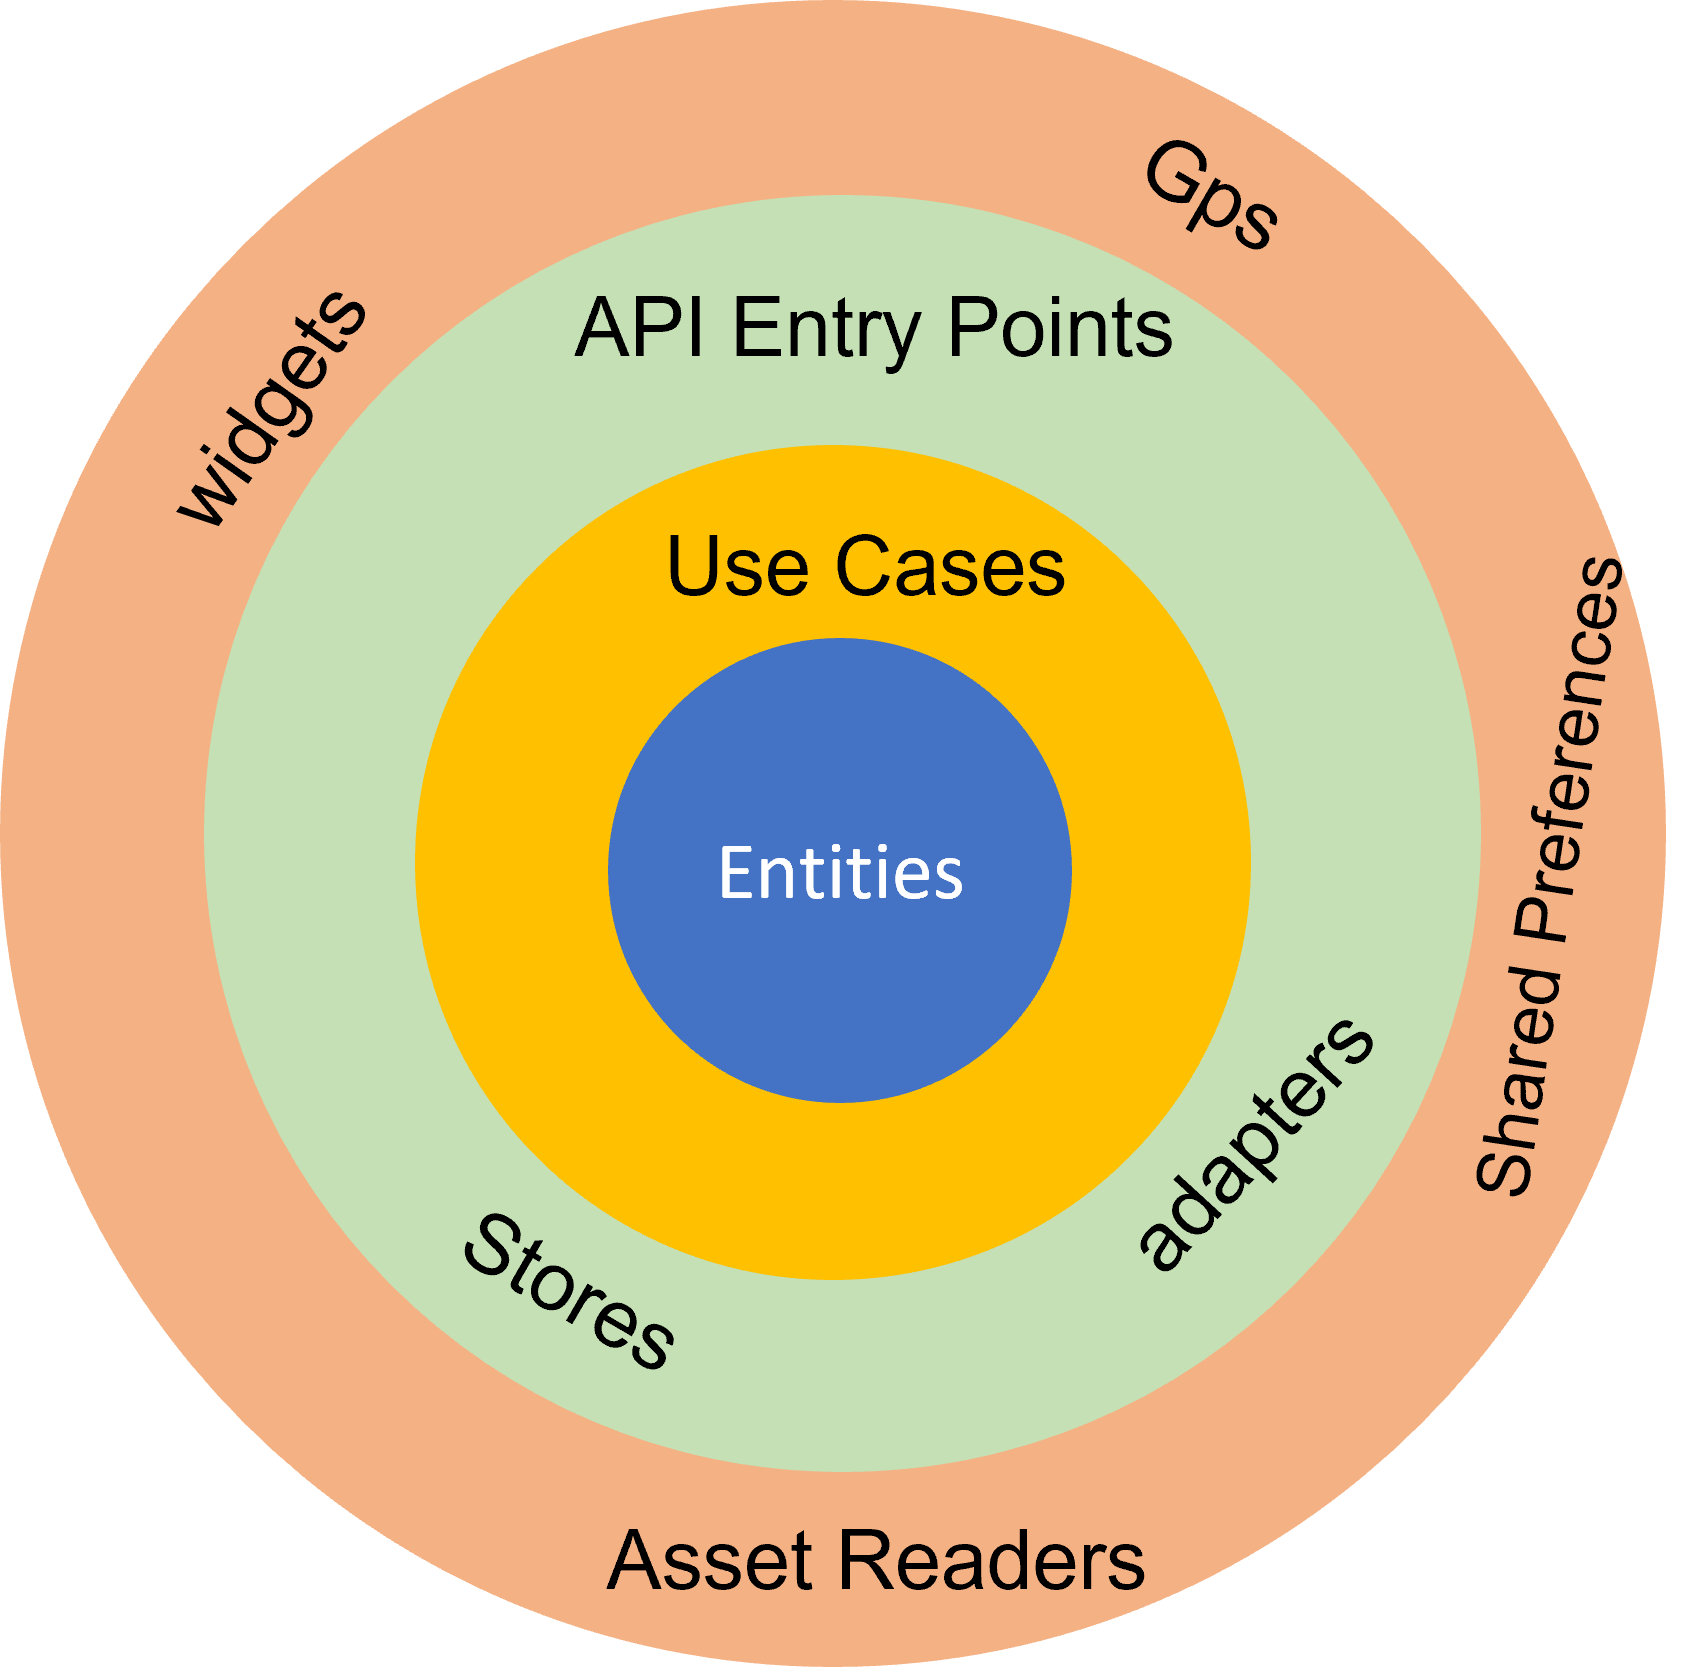
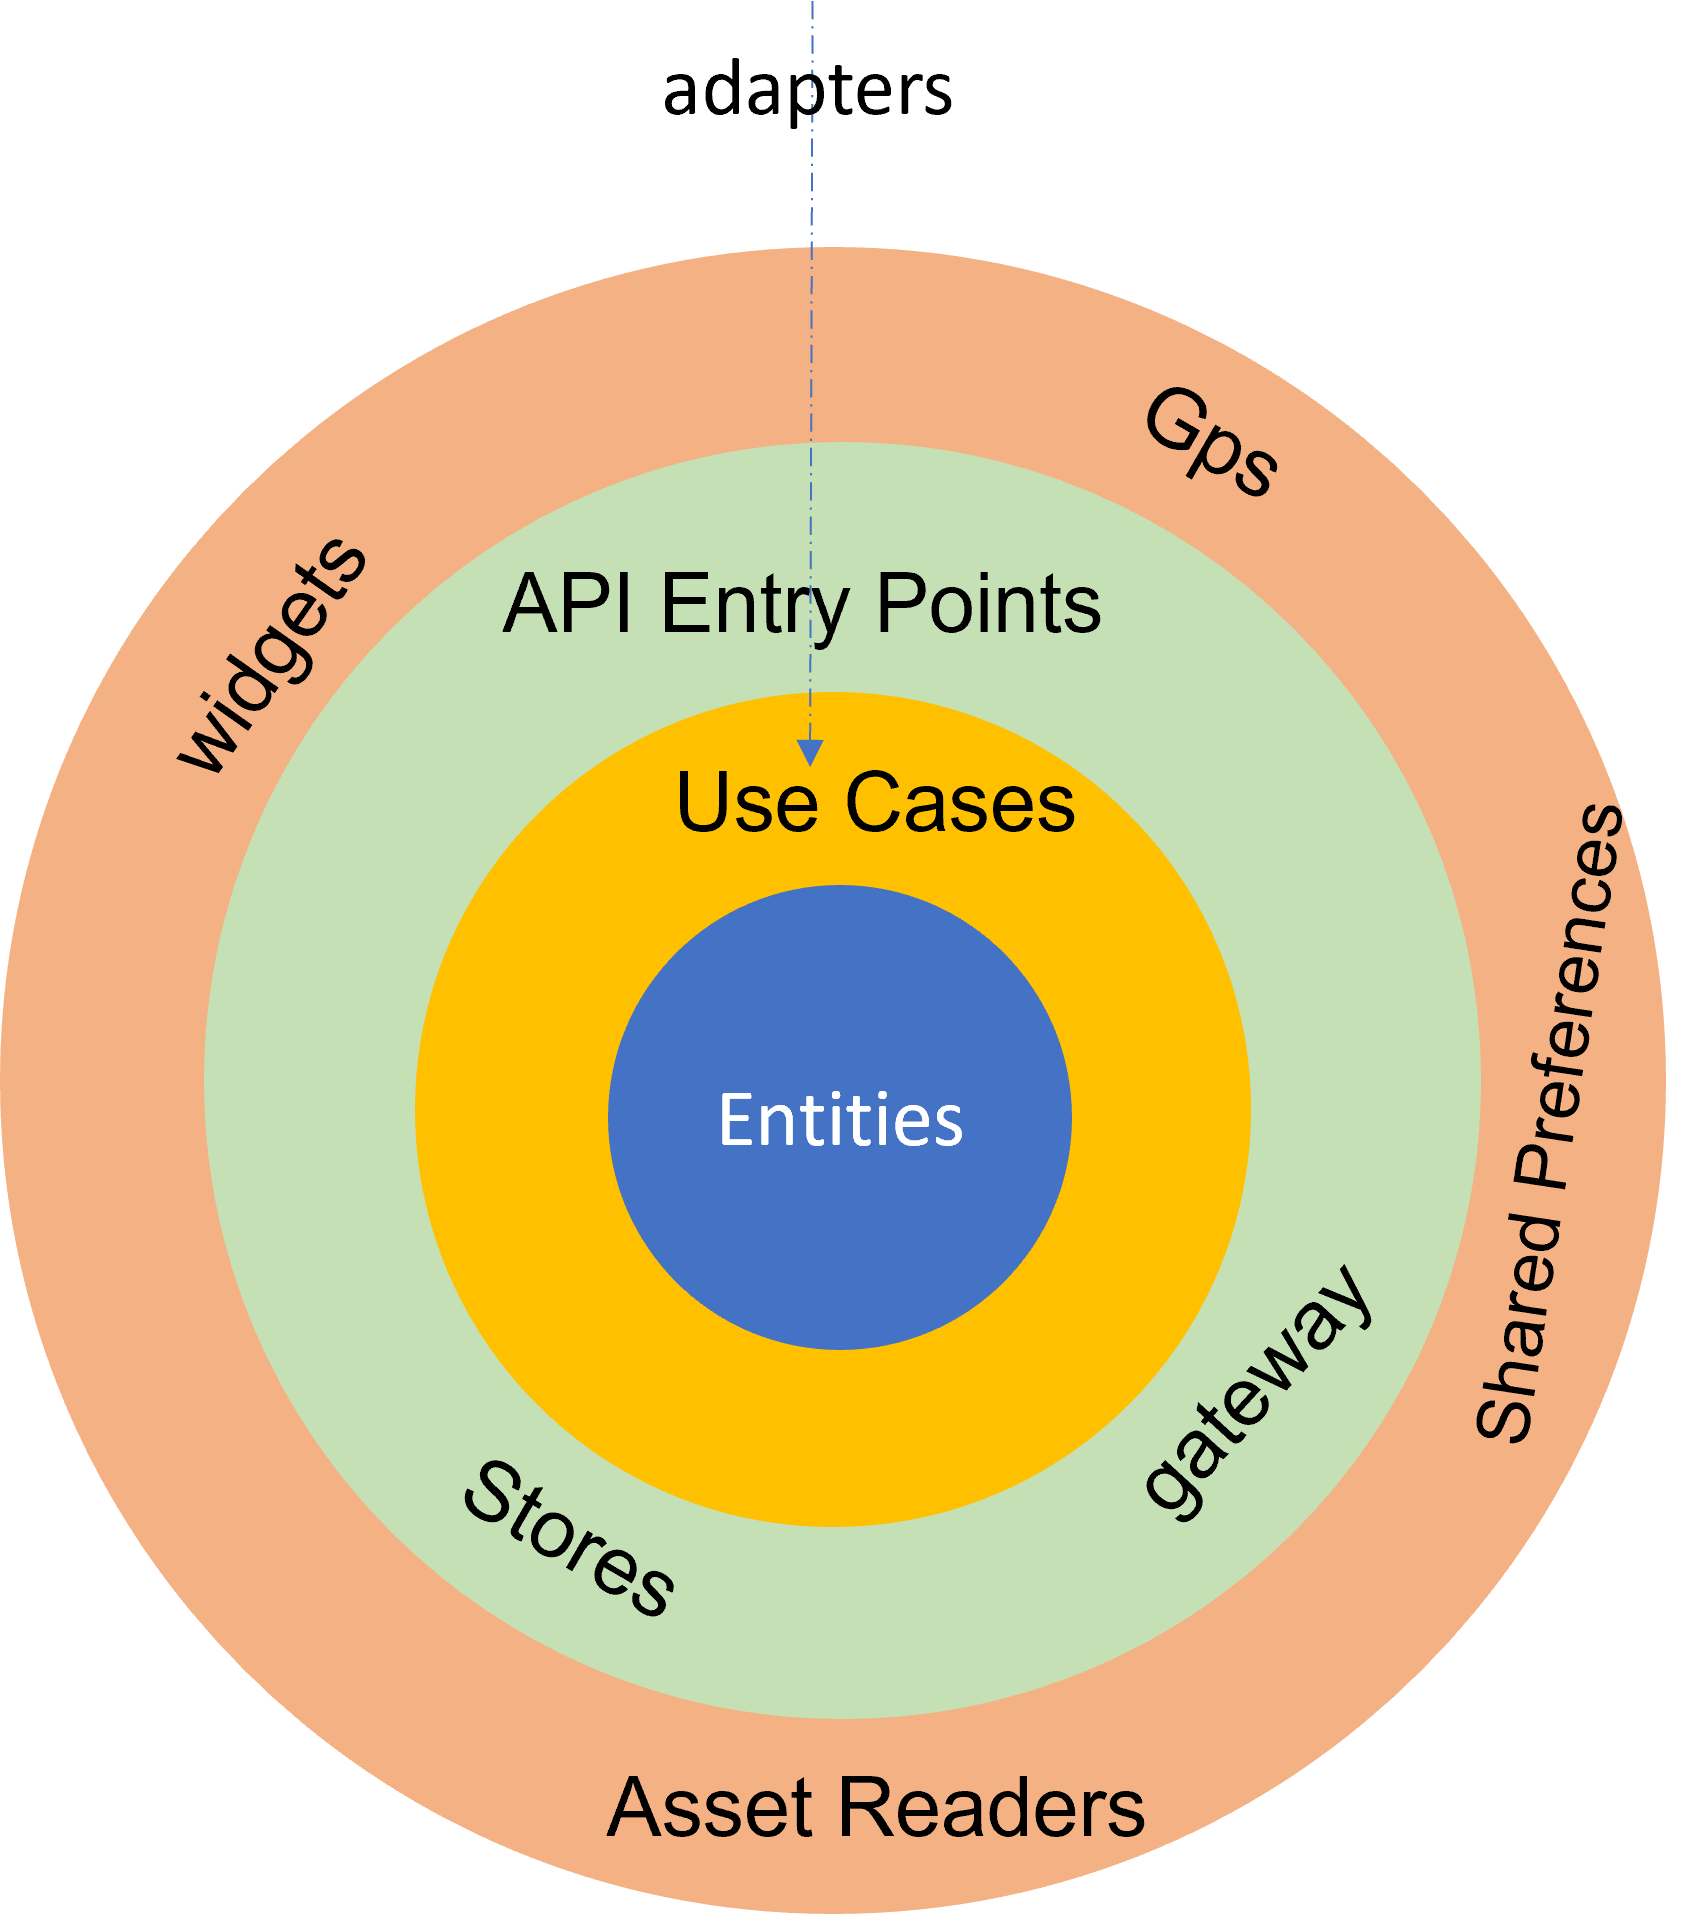
options

diff --git a/lib/adapters/file_reader.dart b/lib/adapters/file_reader.dart
@@ -4,6 +4,7 @@ import 'package:flutter/services.dart' show rootBundle;
 class FileReader{
 
   Future<String> readFromAssetsFolder(String name) async{
-     return Future.delayed(const Duration(seconds: 2), () => '');
+    throw UnimplementedError("readFromAssetsFolder");
+
   }
 }

diff --git a/lib/adapters/distance_calculator.dart b/lib/adapters/distance_calculator.dart
@@ -1,8 +1,6 @@
 
-class DistanceCalculator{
+abstract class DistanceCalculator{
 
-  double getDistanceBetween(double lat1, double lon1, double lat2, double lon2){
-    return 0.0;
-  }
+  double getDistanceBetween(double lat1, double lon1, double lat2, double lon2);
 
 }
